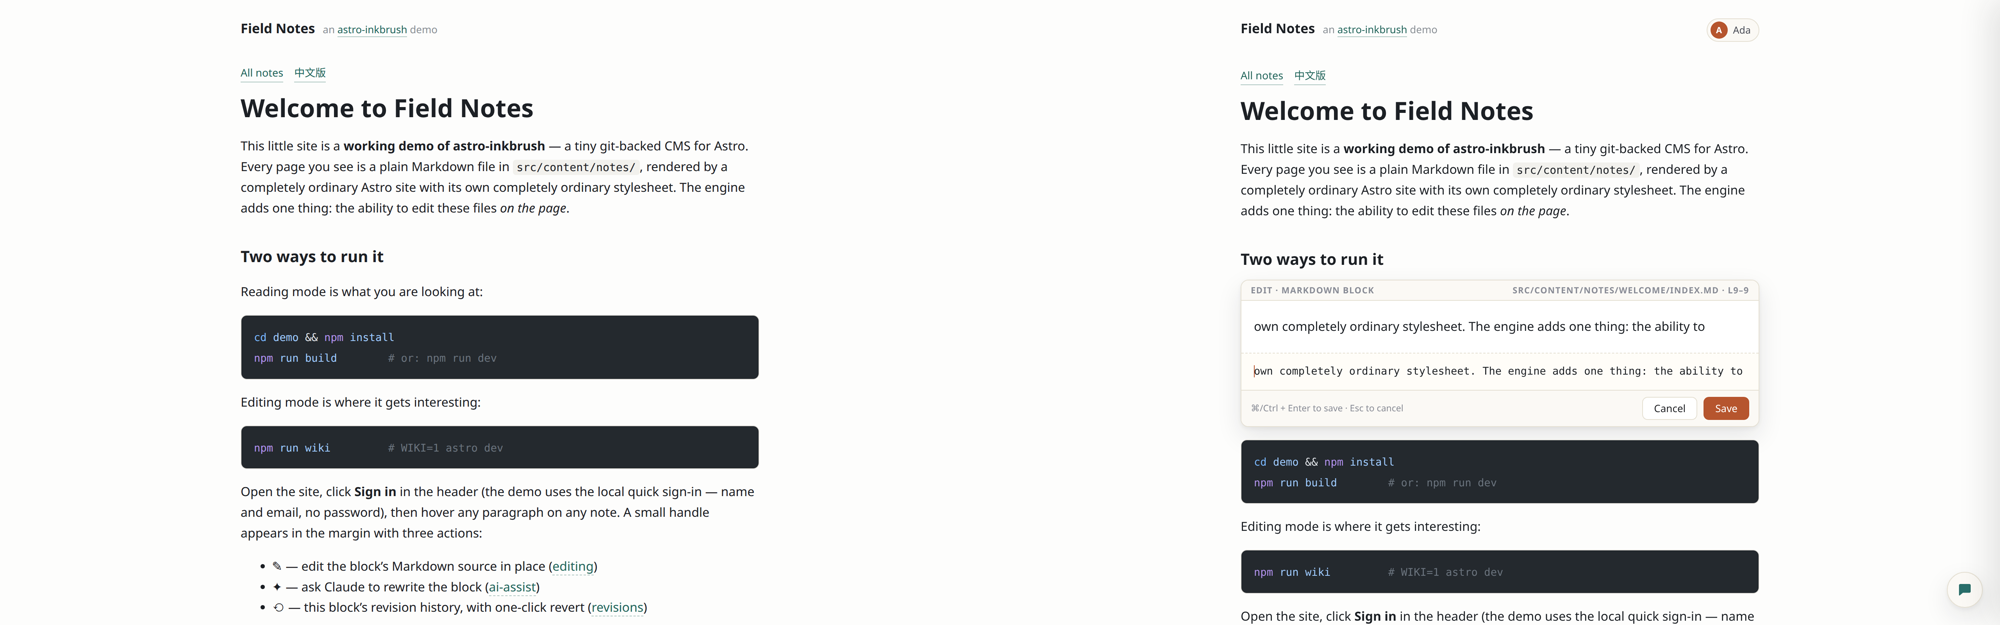
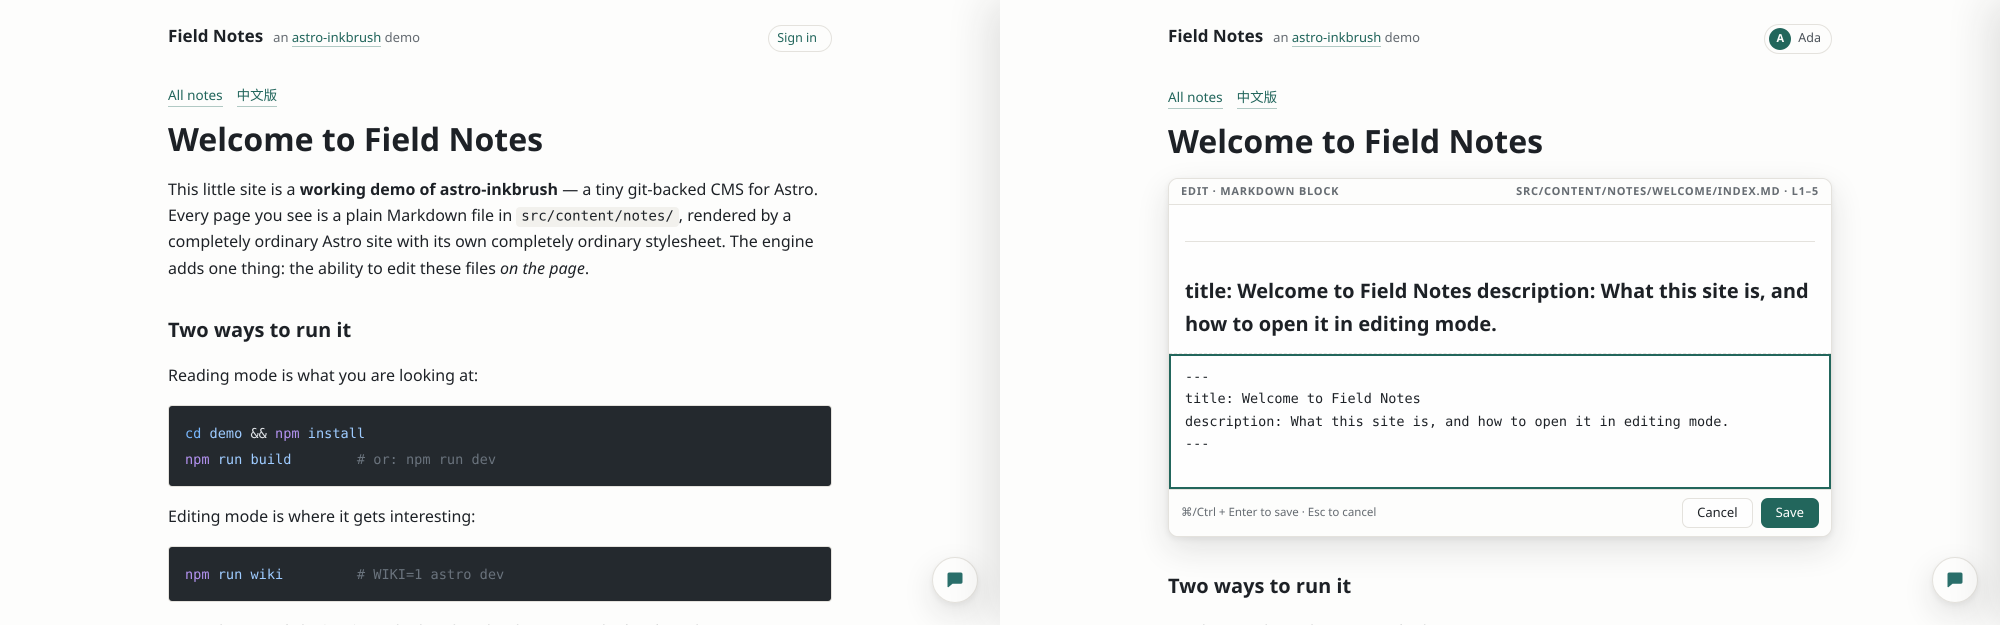
rehype-wiki-blocks: stamps are raw file lines even when the pipeline strips frontmatter
Astro's own .md path hands remark a body-only source, so block positions
and the vfile value are body-relative — while the server reads and writes
blocks by raw file lines. Editing any block then targeted lines shifted
up by the frontmatter's height, opening (and on save corrupting) the
wrong region. The stamper now detects the stripped case (no frontmatter
in the vfile value, frontmatter present in the raw file at file.path) and
adds the block's line count to every stamp; MDX pipelines, whose
positions already count the frontmatter, are stamped unchanged. Note for
operators: rendered stamps live in Astro's content-layer cache — a
deployment picking this up needs a fresh .astro (container rebuilds do).

Claude-Session: https://claude.ai/code/session_01A3KMVMfRsJceRF8NxkvHhx

diff --git a/test/rehype-wiki-blocks-offset.test.ts b/test/rehype-wiki-blocks-offset.test.ts
@@ -1,0 +1,68 @@
+/**
+ * Stamps are RAW file lines. A pipeline that strips the frontmatter before
+ * parsing (body-relative positions, body-only vfile value) gets the
+ * frontmatter offset added from the raw file on disk; a pipeline whose
+ * positions already count the frontmatter gets none.
+ */
+import assert from 'node:assert/strict';
+import { mkdtempSync, rmSync, writeFileSync } from 'node:fs';
+import { tmpdir } from 'node:os';
+import { join } from 'node:path';
+import { test } from 'node:test';
+
+import { VFile } from 'vfile';
+
+import { rehypeWikiBlocks } from '../src/lib/rehype-wiki-blocks.ts';
+
+const RAW = '---\ntitle: T\ndesc: d\n---\n\nIntro paragraph.\n\n## Heading\n';
+const BODY = '\nIntro paragraph.\n\n## Heading\n';
+
+const el = (tag: string, start: number, end: number) => ({
+  type: 'element',
+  tagName: tag,
+  properties: {},
+  children: [],
+  position: { start: { line: start, column: 1 }, end: { line: end, column: 1 } },
+});
+const stamps = (tree: { children: { properties?: Record<string, unknown> }[] }) =>
+  tree.children.map((c) => c.properties?.['data-wiki-src']);
+
+test('body-relative positions with a frontmatter file gain the offset', () => {
+  const dir = mkdtempSync(join(tmpdir(), 'inkbrush-stamp-'));
+  try {
+    const path = join(dir, 'index.md');
+    writeFileSync(path, RAW);
+    // Astro's .md path: value and positions are body-only (intro at body 2)
+    const tree = { type: 'root', children: [el('p', 2, 2), el('h2', 4, 4)] };
+    rehypeWikiBlocks()(tree as never, new VFile({ value: BODY, path }));
+    assert.deepEqual(stamps(tree as never), ['6-6', '8-8']); // raw lines
+  } finally {
+    rmSync(dir, { recursive: true, force: true });
+  }
+});
+
+test('raw-counting positions (MDX path) are stamped unchanged', () => {
+  const dir = mkdtempSync(join(tmpdir(), 'inkbrush-stamp-'));
+  try {
+    const path = join(dir, 'index.mdx');
+    writeFileSync(path, RAW);
+    const tree = { type: 'root', children: [el('p', 6, 6), el('h2', 8, 8)] };
+    rehypeWikiBlocks()(tree as never, new VFile({ value: RAW, path }));
+    assert.deepEqual(stamps(tree as never), ['6-6', '8-8']);
+  } finally {
+    rmSync(dir, { recursive: true, force: true });
+  }
+});
+
+test('a file without frontmatter is stamped unchanged', () => {
+  const dir = mkdtempSync(join(tmpdir(), 'inkbrush-stamp-'));
+  try {
+    const path = join(dir, 'index.md');
+    writeFileSync(path, BODY);
+    const tree = { type: 'root', children: [el('p', 2, 2)] };
+    rehypeWikiBlocks()(tree as never, new VFile({ value: BODY, path }));
+    assert.deepEqual(stamps(tree as never), ['2-2']);
+  } finally {
+    rmSync(dir, { recursive: true, force: true });
+  }
+});

diff --git a/src/lib/rehype-wiki-blocks.ts b/src/lib/rehype-wiki-blocks.ts
@@ -18,8 +18,12 @@
  * neighbouring positioned siblings (e.g. KaTeX display blocks, whose nodes
  * carry no position), trimmed to non-empty source lines.
  */
+import { readFileSync } from 'node:fs';
+
 import type { Root } from 'hast';
 import type { VFile } from 'vfile';
+
+import { splitFrontmatter } from './frontmatter.ts';
 
 interface Pos {
   start: number;
@@ -61,8 +65,31 @@ function isBlank(line: string | undefined): boolean {
 
 export function rehypeWikiBlocks() {
   return (tree: Root, file: VFile): void => {
-    const sourceLines = String(file.value).split('\n');
+    const value = String(file.value);
+    const sourceLines = value.split('\n');
     const children = tree.children as unknown as AnyNode[];
+
+    // Stamps must be RAW file lines — the server reads and writes blocks by
+    // them. A pipeline that strips the frontmatter before parsing (Astro's
+    // own .md path) yields body-relative positions and a body-only vfile
+    // value; the raw file on disk tells the difference, and the stamp then
+    // carries the frontmatter offset. A pipeline whose positions already
+    // count the frontmatter (MDX) needs none.
+    let offset = 0;
+    if (!splitFrontmatter(value).present && file.path) {
+      let raw: string | null = null;
+      try {
+        raw = readFileSync(file.path, 'utf8');
+      } catch {
+        raw = null;
+      }
+      if (raw !== null) {
+        const fm = splitFrontmatter(raw);
+        // the body starts on the line after the closing fence: the offset is
+        // the number of raw lines the block (and anything before it) occupies
+        if (fm.present) offset = raw.slice(0, fm.end).split('\n').length;
+      }
+    }
 
     // pass 1: resolve a position for every stampable top-level node
     const resolved: (Pos | null)[] = children.map((node) => {
@@ -103,7 +130,7 @@ export function rehypeWikiBlocks() {
       const node = children[i]!;
       const pos = resolved[i];
       if (!pos) continue;
-      const value = `${pos.start}-${pos.end}`;
+      const value = `${pos.start + offset}-${pos.end + offset}`;
       if (node.type === 'element') {
         node.properties ??= {};
         node.properties['data-wiki-src'] = value;
